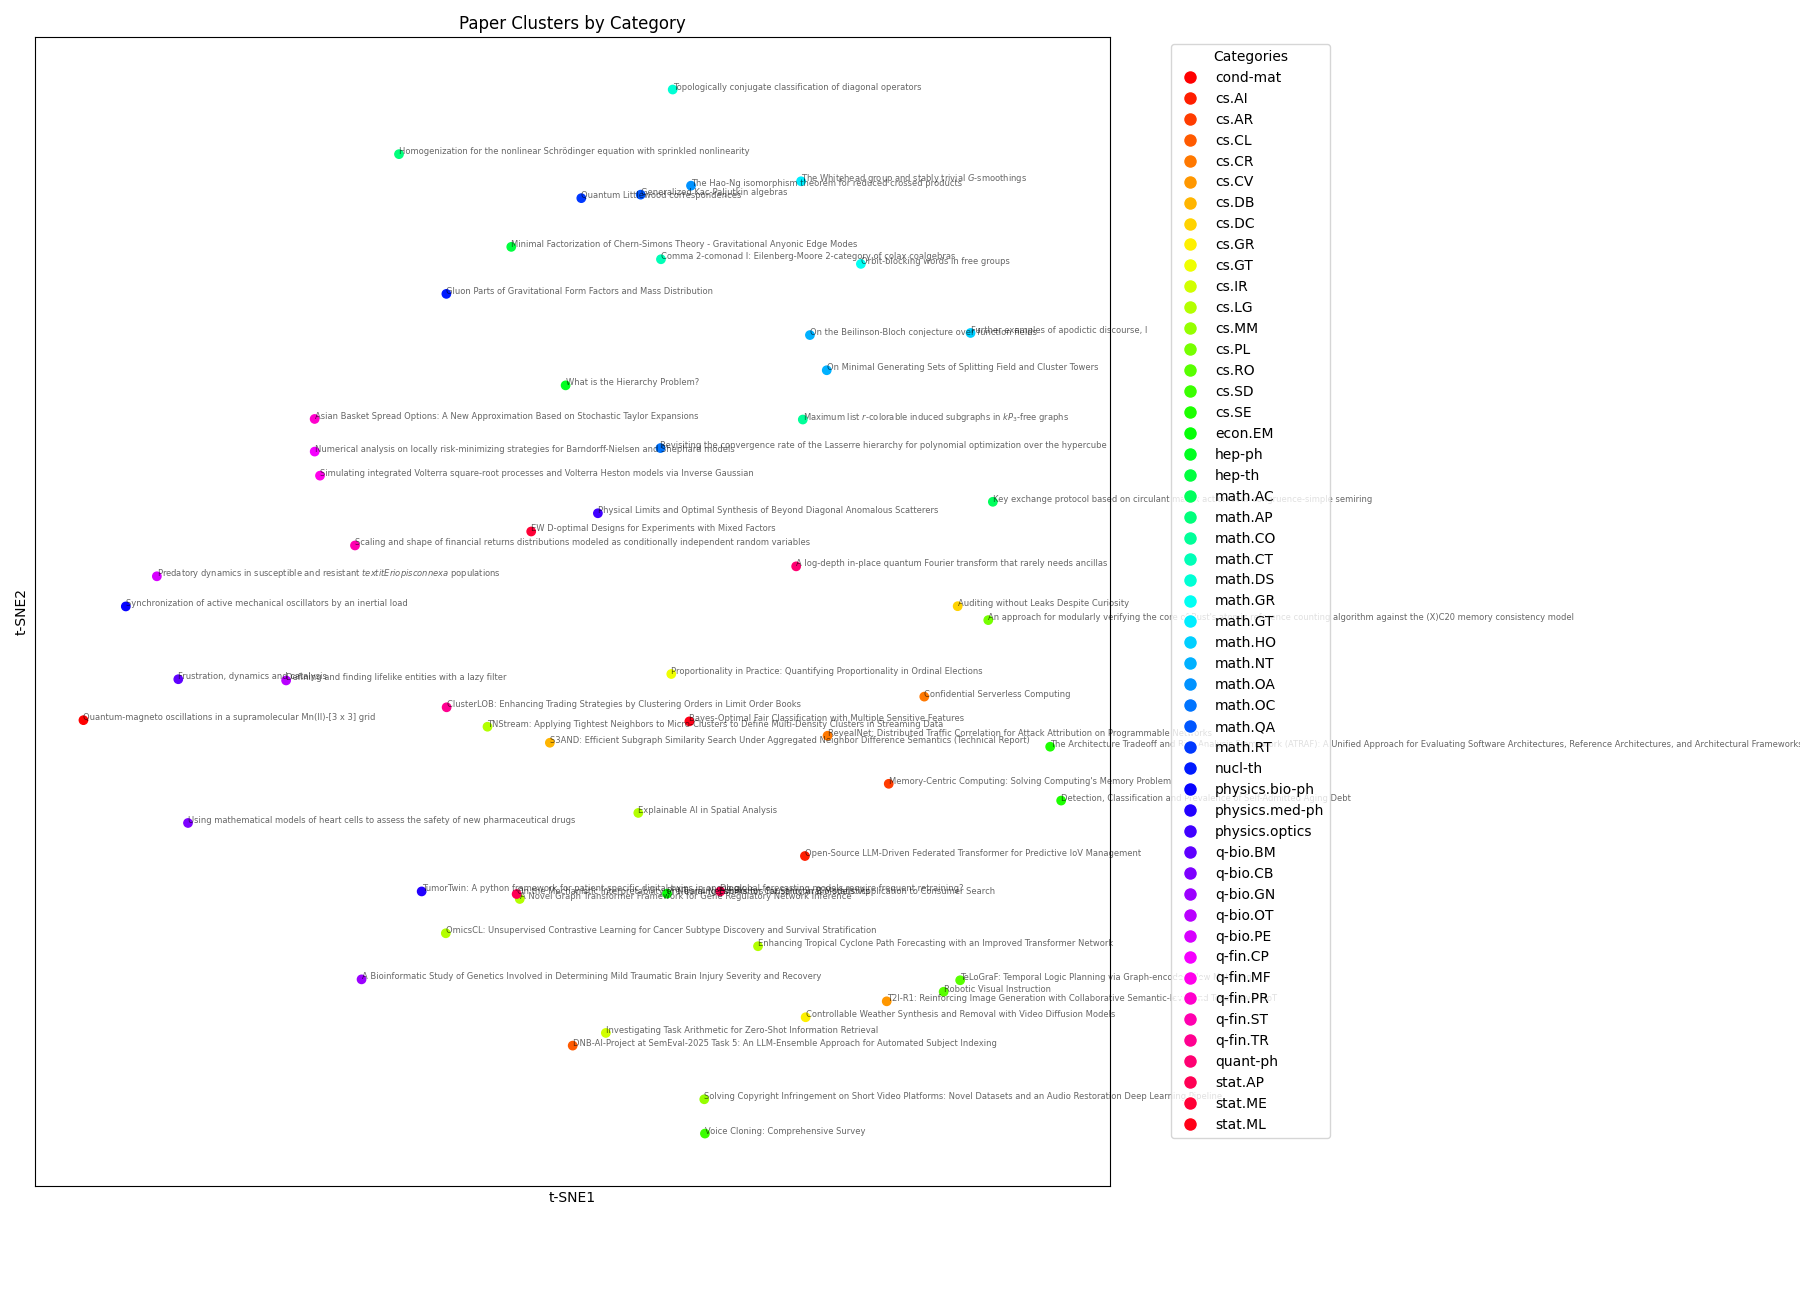
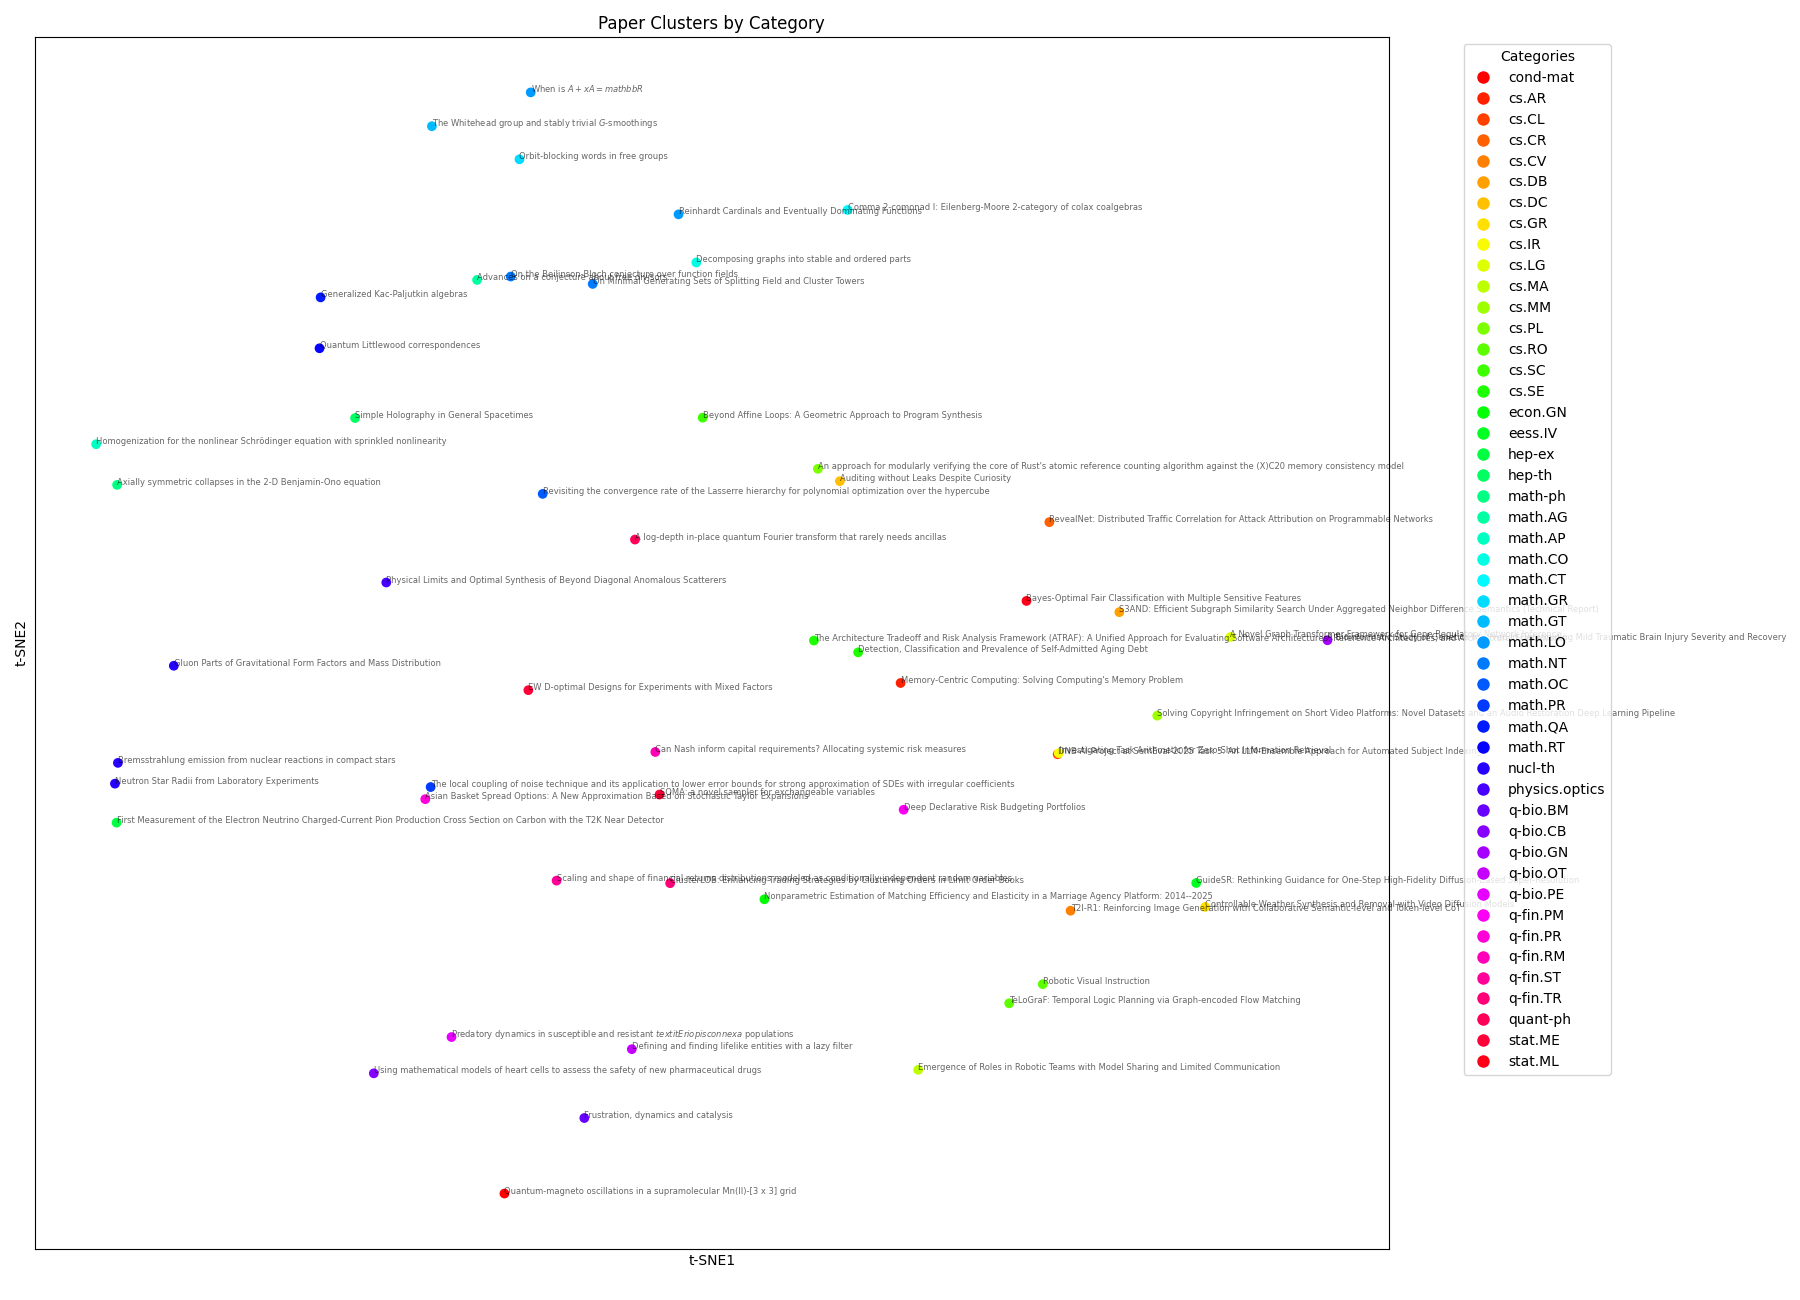
add: bigger cluster example

diff --git a/MonaaLisa/SemanticPaper/src/machine_learning/cluster.py b/MonaaLisa/SemanticPaper/src/machine_learning/cluster.py
@@ -17,7 +17,7 @@ Args:
 
 Returns: Cluster label for each vector, the fitted KMeans object
 """
-def cluster(embeddings, n_cluster=5):
+def cluster(embeddings, n_cluster=30):
     embeddings = np.array(embeddings)
     kmeans = KMeans(n_clusters=n_cluster, random_state=42)
     labels = kmeans.fit_predict(embeddings)

diff --git a/MonaaLisa/SemanticPaper/main.py b/MonaaLisa/SemanticPaper/main.py
@@ -3,6 +3,6 @@ from src.api.arxiv import fetch_one_random_paper, categories
 from src.machine_learning.cluster import cluster_papers_in_category
 
 def main():
-    cluster_papers_in_category(60)
+    cluster_papers_in_category(55)
 if __name__ == "__main__":
     main()

diff --git a/MonaaLisa/SemanticPaper/README.md b/MonaaLisa/SemanticPaper/README.md
@@ -9,7 +9,7 @@ Automatically categorizes academic papers from **arXiv** using semantic embeddin
 
 ---
 
-### Example Cluster - will get updated with the last tried data ( trying 45 categories in this example =D ).
+### Example Cluster - will get updated with the last tried data ( trying 55 categories in this example =D ).
 
 ![Paper Cluster](clusters.png)
 
